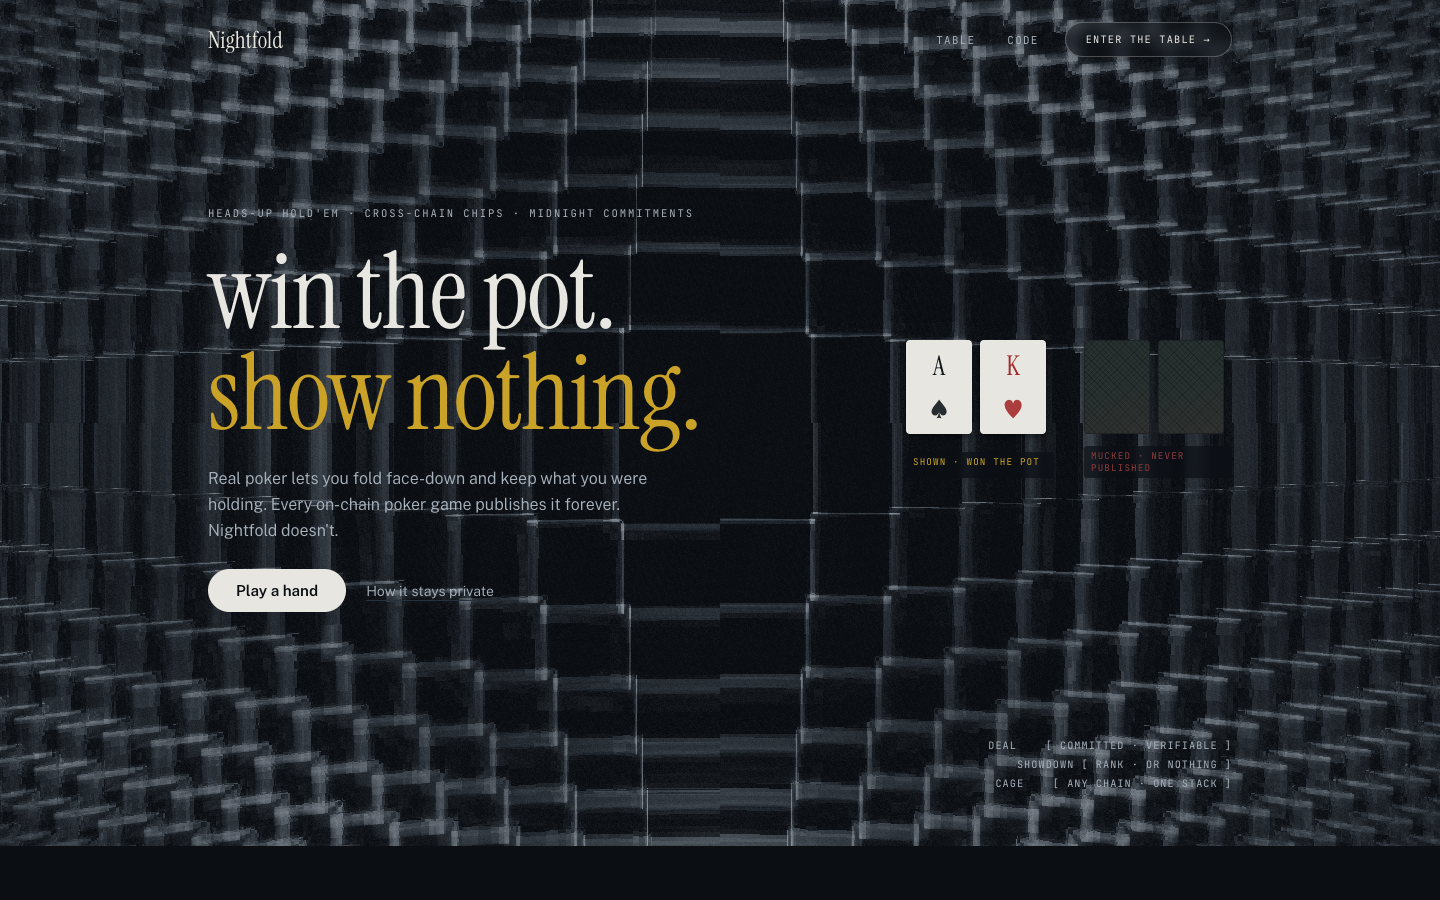
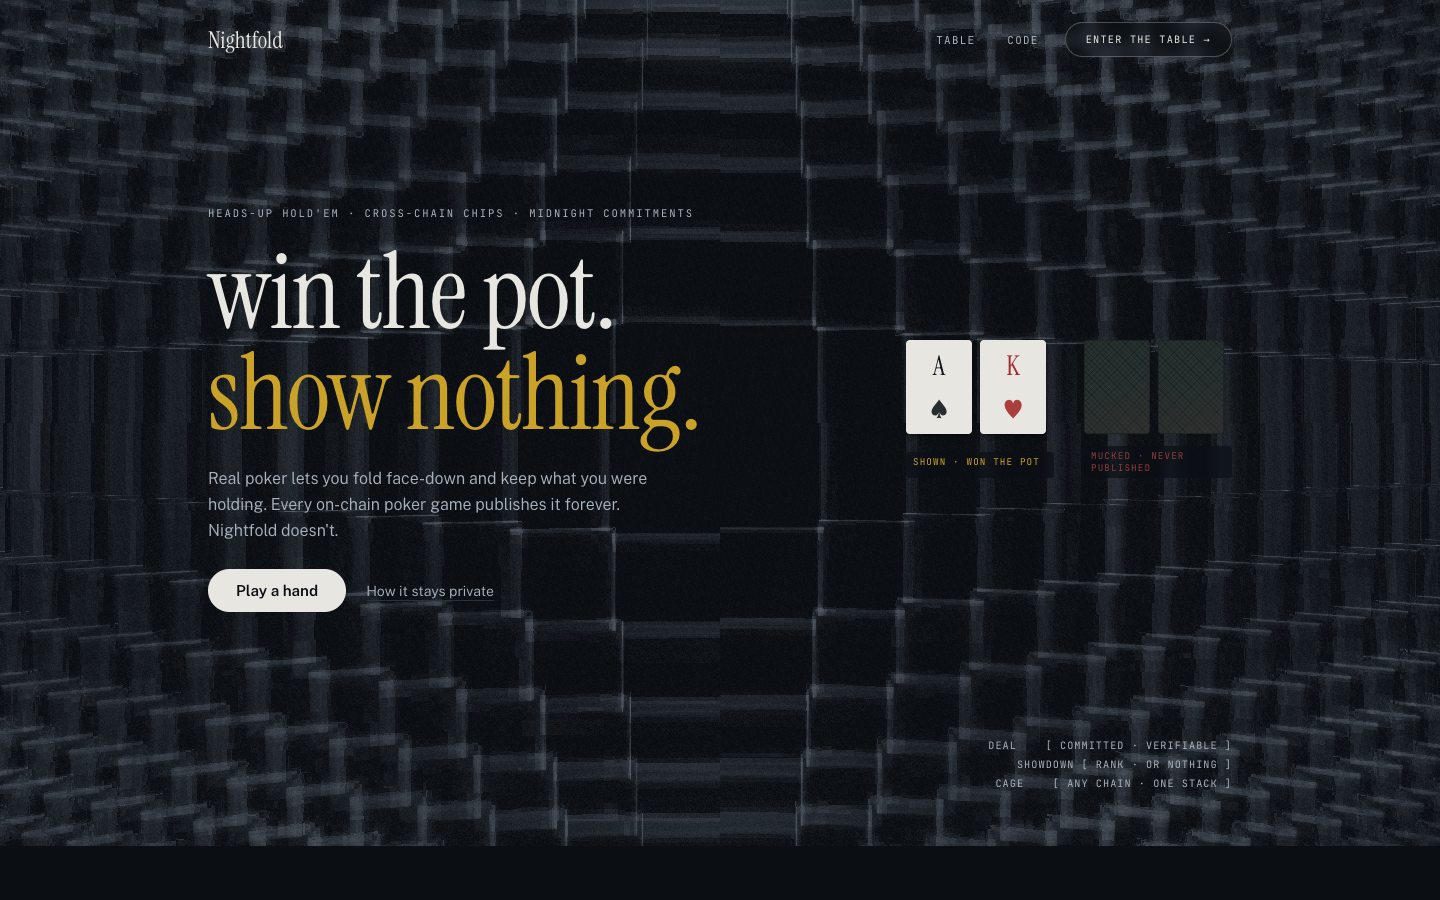
Push the corridor further back behind a flat dark veil
Two layers rather than one: the component's own opacity drops to 0.55, and a
flat rgba(11,15,20,.70) veil sits over the whole field before the headline pool
and the bottom fade. The corridor now reads as texture in the room rather than
as the subject of the page, which is what a background is for.

Kept as two separate controls on purpose -- the veil is a single CSS value to
tune if it wants to go darker still, without touching the shader.

Changed region(s): [[0.0, 0.0, 1.0, 0.9644], [0.4062, 0.4356, 0.4375, 0.5289], [0.0, 0.5911, 0.0625, 0.6222]]

diff --git a/ui/src/landing.css b/ui/src/landing.css
@@ -29,19 +29,18 @@
   position: absolute;
   inset: 0;
   z-index: -1;
-  /* Readability lives here, not in the shader. A soft pool behind the
-     headline column plus a bottom fade into the page ground -- the field
-     itself stays uniform across the full width. */
-  /* Wide and soft so there is no visible edge where the pool ends — a tight
-     radial leaves a seam straight down the middle of the hero. */
+  /* A flat dark veil first, so the corridor reads as texture rather than
+     subject, then a soft pool over the headline column and a fade into the
+     page ground at the seam. */
   background:
+    rgba(11, 15, 20, .70),
     radial-gradient(80% 86% at 16% 50%,
-      rgba(11,15,20,.94) 0%,
-      rgba(11,15,20,.80) 24%,
-      rgba(11,15,20,.46) 48%,
-      rgba(11,15,20,.14) 74%,
+      rgba(11,15,20,.80) 0%,
+      rgba(11,15,20,.60) 26%,
+      rgba(11,15,20,.30) 52%,
+      rgba(11,15,20,.08) 76%,
       transparent 100%),
-    linear-gradient(180deg, rgba(11,15,20,.30) 0%, rgba(11,15,20,0) 28%, rgba(11,15,20,.45) 80%, var(--ground) 100%);
+    linear-gradient(180deg, rgba(11,15,20,.34) 0%, rgba(11,15,20,.06) 30%, rgba(11,15,20,.52) 80%, var(--ground) 100%);
 }
 
 /* ---- nav ------------------------------------------------------------------ */

diff --git a/ui/src/Landing.tsx b/ui/src/Landing.tsx
@@ -52,7 +52,7 @@ export function Landing({ onPlay }: Props) {
             className="land__canvas"
             color1="#0B0F14"
             color2="#798797"
-            color3="#CBD5DF"
+            color3="#AEB9C6"
             detail="high"
             speed={0.7}
             waveDepth={1}
@@ -65,7 +65,7 @@ export function Landing({ onPlay }: Props) {
             colorShift={0}
             contrast={1}
             brightness={1.0}
-            opacity={0.82}
+            opacity={0.55}
             mouseInteraction={true}
             mouseStrength={0.1}
             mouseRadius={0.35}
